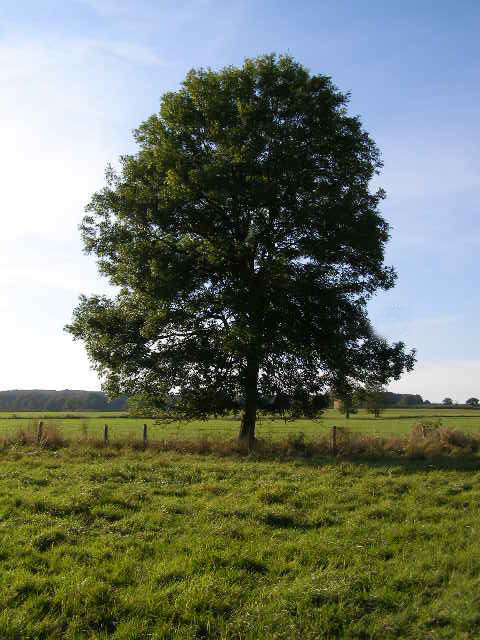
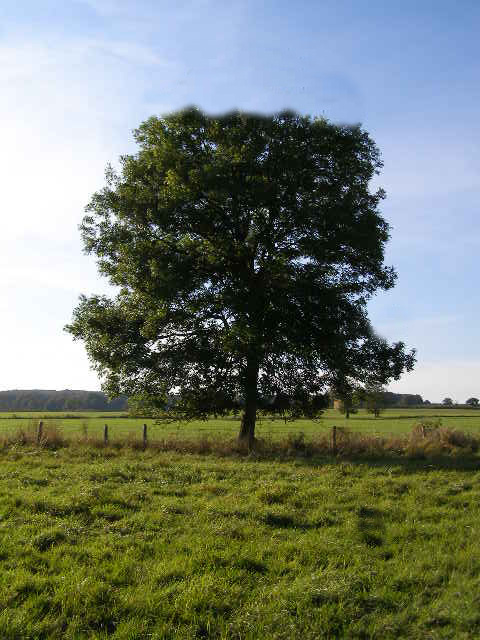
Make it possible to use a mask image

Changed region(s): [[0.3125, 0.0625, 0.75, 0.2188], [0.7188, 0.7812, 0.8125, 0.875]]

diff --git a/src/image_diff.c b/src/image_diff.c
@@ -14,108 +14,38 @@
 unsigned char *raw_image_1 = NULL;
 unsigned char *raw_image_2 = NULL;
 unsigned char *diff_image = NULL;
+unsigned char *mask_image = NULL;
 
 int width = 640;
 int height = 480;
 int bytes_per_pixel = 3;   // or 1 for GRACYSCALE images
 int color_space = JCS_RGB; // or JCS_GRAYSCALE for grayscale images
-/*
-*/
 
-int read_jpeg_file( char *filename, int image_id )
+int compare_images( char *filename1, char *filename2, int sensitiviy, int cluster_square_size, float cluster_threshold_factor, char *maskfilename )
 {
 	struct jpeg_decompress_struct cinfo;
 	struct jpeg_error_mgr jerr;
 
 	JSAMPROW row_pointer[1];
-	
-	FILE *infile = fopen( filename, "rb" );
-	unsigned long location = 0;
-	int i = 0;
-	
-	if ( !infile )
-	{
-		printf("Error opening jpeg file %s\n!", filename );
-		return -1;
-	}
-	cinfo.err = jpeg_std_error( &jerr );
-	jpeg_create_decompress( &cinfo );
-	jpeg_stdio_src( &cinfo, infile );
-	jpeg_read_header( &cinfo, TRUE );
-	jpeg_start_decompress( &cinfo );
+	int use_mask = 0;
 
-	if(image_id == 1) {
-		raw_image_1 = (unsigned char*)malloc( cinfo.output_width*cinfo.output_height*cinfo.num_components );
-	}
-	if(image_id == 2) {
-		raw_image_2 = (unsigned char*)malloc( cinfo.output_width*cinfo.output_height*cinfo.num_components );
-		diff_image = (unsigned char*)malloc( cinfo.output_width*cinfo.output_height*cinfo.num_components );
-	}
 
-	row_pointer[0] = (unsigned char *)malloc( cinfo.output_width*cinfo.num_components );
 
-	while( cinfo.output_scanline < cinfo.image_height )
-	{
-		jpeg_read_scanlines( &cinfo, row_pointer, 1 );
-		for( i=0; i<cinfo.image_width*cinfo.num_components;i++) {
-
-			if(image_id == 1) {
-				raw_image_1[location] = row_pointer[0][i];
-			}
-			if(image_id == 2) {
-				raw_image_2[location] = row_pointer[0][i]/2;
-
-				// diff_image[location] = abs(raw_image_2[location] - raw_image_1[location]);
-				// location++;
-				// if( (i+1) % 3 == 0) {
-				// 	// $diff_avg = (abs($r1 - $r2) + abs($g1 - $g2) + abs($b1 - $b2)) / 3;
-				// }
-			}
-			location++;
-		}
-	}
-
-	jpeg_finish_decompress( &cinfo );
-	jpeg_destroy_decompress( &cinfo );
-
-	free( row_pointer[0] );
-	fclose( infile );
-
-	return 1;
-}
-
-int read_jpeg_file2( char *filename1, char *filename2, int sensitiviy, int cluster_square_size, float cluster_threshold_factor )
-{
-	struct jpeg_decompress_struct cinfo;
-	struct jpeg_error_mgr jerr;
-
-	JSAMPROW row_pointer[1];
-	
+	// Read file 1
 	FILE *infile1 = fopen( filename1, "rb" );
-	FILE *infile2 = fopen( filename2, "rb" );
 	unsigned long location1 = 0;
-	unsigned long location2 = 0;
-	
 	if ( !infile1 )
 	{
 		printf("Error opening jpeg file %s\n!", filename1 );
 		return -1;
 	}
-	if ( !infile2 )
-	{
-		printf("Error opening jpeg file %s\n!", filename2 );
-		return -1;
-	}
-
 	cinfo.err = jpeg_std_error( &jerr );
 	jpeg_create_decompress( &cinfo );
 	jpeg_stdio_src( &cinfo, infile1 );
 	jpeg_read_header( &cinfo, TRUE );
 	jpeg_start_decompress( &cinfo );
-
 	raw_image_1 = (unsigned char*)malloc( cinfo.output_width*cinfo.output_height*cinfo.num_components );
 	row_pointer[0] = (unsigned char *)malloc( cinfo.output_width*cinfo.num_components );
-
 	while( cinfo.output_scanline < cinfo.image_height )
 	{
 		jpeg_read_scanlines( &cinfo, row_pointer, 1 );
@@ -124,16 +54,56 @@ int read_jpeg_file2( char *filename1, char *filename2, int sensitiviy, int clust
 			location1++;
 		}
 	}
-
 	jpeg_finish_decompress( &cinfo );
 	jpeg_destroy_decompress( &cinfo );
-
 	free( row_pointer[0] );
 	fclose( infile1 );
 
 
 
 
+	// Read mask file, if any
+	if(strcmp(maskfilename, "") != 0) {
+		FILE *maskfile = fopen( maskfilename, "rb" );
+		unsigned long location_mask = 0;
+		if ( !maskfile )
+		{
+			printf("Error opening jpeg file %s\n!", maskfilename );
+			return -1;
+		}
+		cinfo.err = jpeg_std_error( &jerr );
+		jpeg_create_decompress( &cinfo );
+		jpeg_stdio_src( &cinfo, maskfile );
+		jpeg_read_header( &cinfo, TRUE );
+		jpeg_start_decompress( &cinfo );
+		mask_image = (unsigned char*)malloc( cinfo.output_width*cinfo.output_height*cinfo.num_components );
+		row_pointer[0] = (unsigned char *)malloc( cinfo.output_width*cinfo.num_components );
+		while( cinfo.output_scanline < cinfo.image_height )
+		{
+			jpeg_read_scanlines( &cinfo, row_pointer, 1 );
+			for( int i=0; i<cinfo.image_width*cinfo.num_components;i++) {
+				mask_image[location_mask] = row_pointer[0][i];
+				location_mask++;
+			}
+		}
+		jpeg_finish_decompress( &cinfo );
+		jpeg_destroy_decompress( &cinfo );
+		free( row_pointer[0] );
+		fclose( maskfile );
+		use_mask = 1;
+	}
+
+
+
+
+	// Read file 2
+	FILE *infile2 = fopen( filename2, "rb" );
+	unsigned long location2 = 0;
+	if ( !infile2 )
+	{
+		printf("Error opening jpeg file %s\n!", filename2 );
+		return -1;
+	}
 	cinfo.err = jpeg_std_error( &jerr );
 	jpeg_create_decompress( &cinfo );
 	jpeg_stdio_src( &cinfo, infile2 );
@@ -152,7 +122,11 @@ int read_jpeg_file2( char *filename1, char *filename2, int sensitiviy, int clust
 		jpeg_read_scanlines( &cinfo, row_pointer, 1 );
 		for( int i=0; i<cinfo.image_width*cinfo.num_components;i++) {
 			raw_image_2[location2] = row_pointer[0][i];
-			diff_image[location2] = abs(row_pointer[0][i] - raw_image_1[location2]);
+
+			if( ((use_mask == 1) && (mask_image[location2] == 255)) || (use_mask == 0) ) {
+				diff_image[location2] = abs(row_pointer[0][i] - raw_image_1[location2]);
+			}
+
 			location2++;
 		}
 	}
@@ -335,13 +309,15 @@ int main(int argc, char* argv[]) {
 	char *infilename1 = "";
 	char *infilename2 = "";
 	char *outfilename = "";
+	char *maskfilename = "";
 
+	// default values
 	int sensitiviy = 20;
 	int cluster_square_size = 12;
 	float cluster_threshold_factor = 0.5;
-
 	int verbose = 0;
 
+	// handle arguments
 	for (int arg = 0; arg < argc; ++arg)
     {
     	if(strcmp(argv[arg], "-f1") == 0) {
@@ -352,6 +328,9 @@ int main(int argc, char* argv[]) {
     	}
     	if(strcmp(argv[arg], "-o") == 0) {
 			outfilename = argv[arg+1];
+    	}
+    	if(strcmp(argv[arg], "-m") == 0) {
+			maskfilename = argv[arg+1];
     	}
     	if(strcmp(argv[arg], "-v") == 0) {
     		verbose = 1;
@@ -368,19 +347,21 @@ int main(int argc, char* argv[]) {
     	}
     }
 
+	if(strcmp(outfilename, "") == 0) {
+		outfilename = str_replace(infilename2, ".jpg", "_diff.jpg");
+	}
+
 	if(verbose == 1) {
-		printf("infilename1: %s\n", infilename1);
-		printf("infilename2: %s\n", infilename2);
+		printf("in filename1: %s\n", infilename1);
+		printf("in filename2: %s\n", infilename2);
+		printf("output filename: %s\n", outfilename);
+		printf("mask filename: %s\n", maskfilename);
 		printf("sensitiviy: %d\n", sensitiviy);
 		printf("cluster_square_size: %d\n", cluster_square_size);
 		printf("cluster_threshold_factor: %f\n", cluster_threshold_factor);
 	}
 
-	if(strcmp(outfilename, "") == 0) {
-		outfilename = str_replace(infilename2, ".jpg", "_diff.jpg");
-	}
-
-	int cluster_hit_counter = read_jpeg_file2( infilename1, infilename2, sensitiviy, cluster_square_size, cluster_threshold_factor );
+	int cluster_hit_counter = compare_images( infilename1, infilename2, sensitiviy, cluster_square_size, cluster_threshold_factor, maskfilename );
 	if( cluster_hit_counter < 0 ) {
 		printf("{\"error\":\"failed to compare images\"}");
 		return -1;
